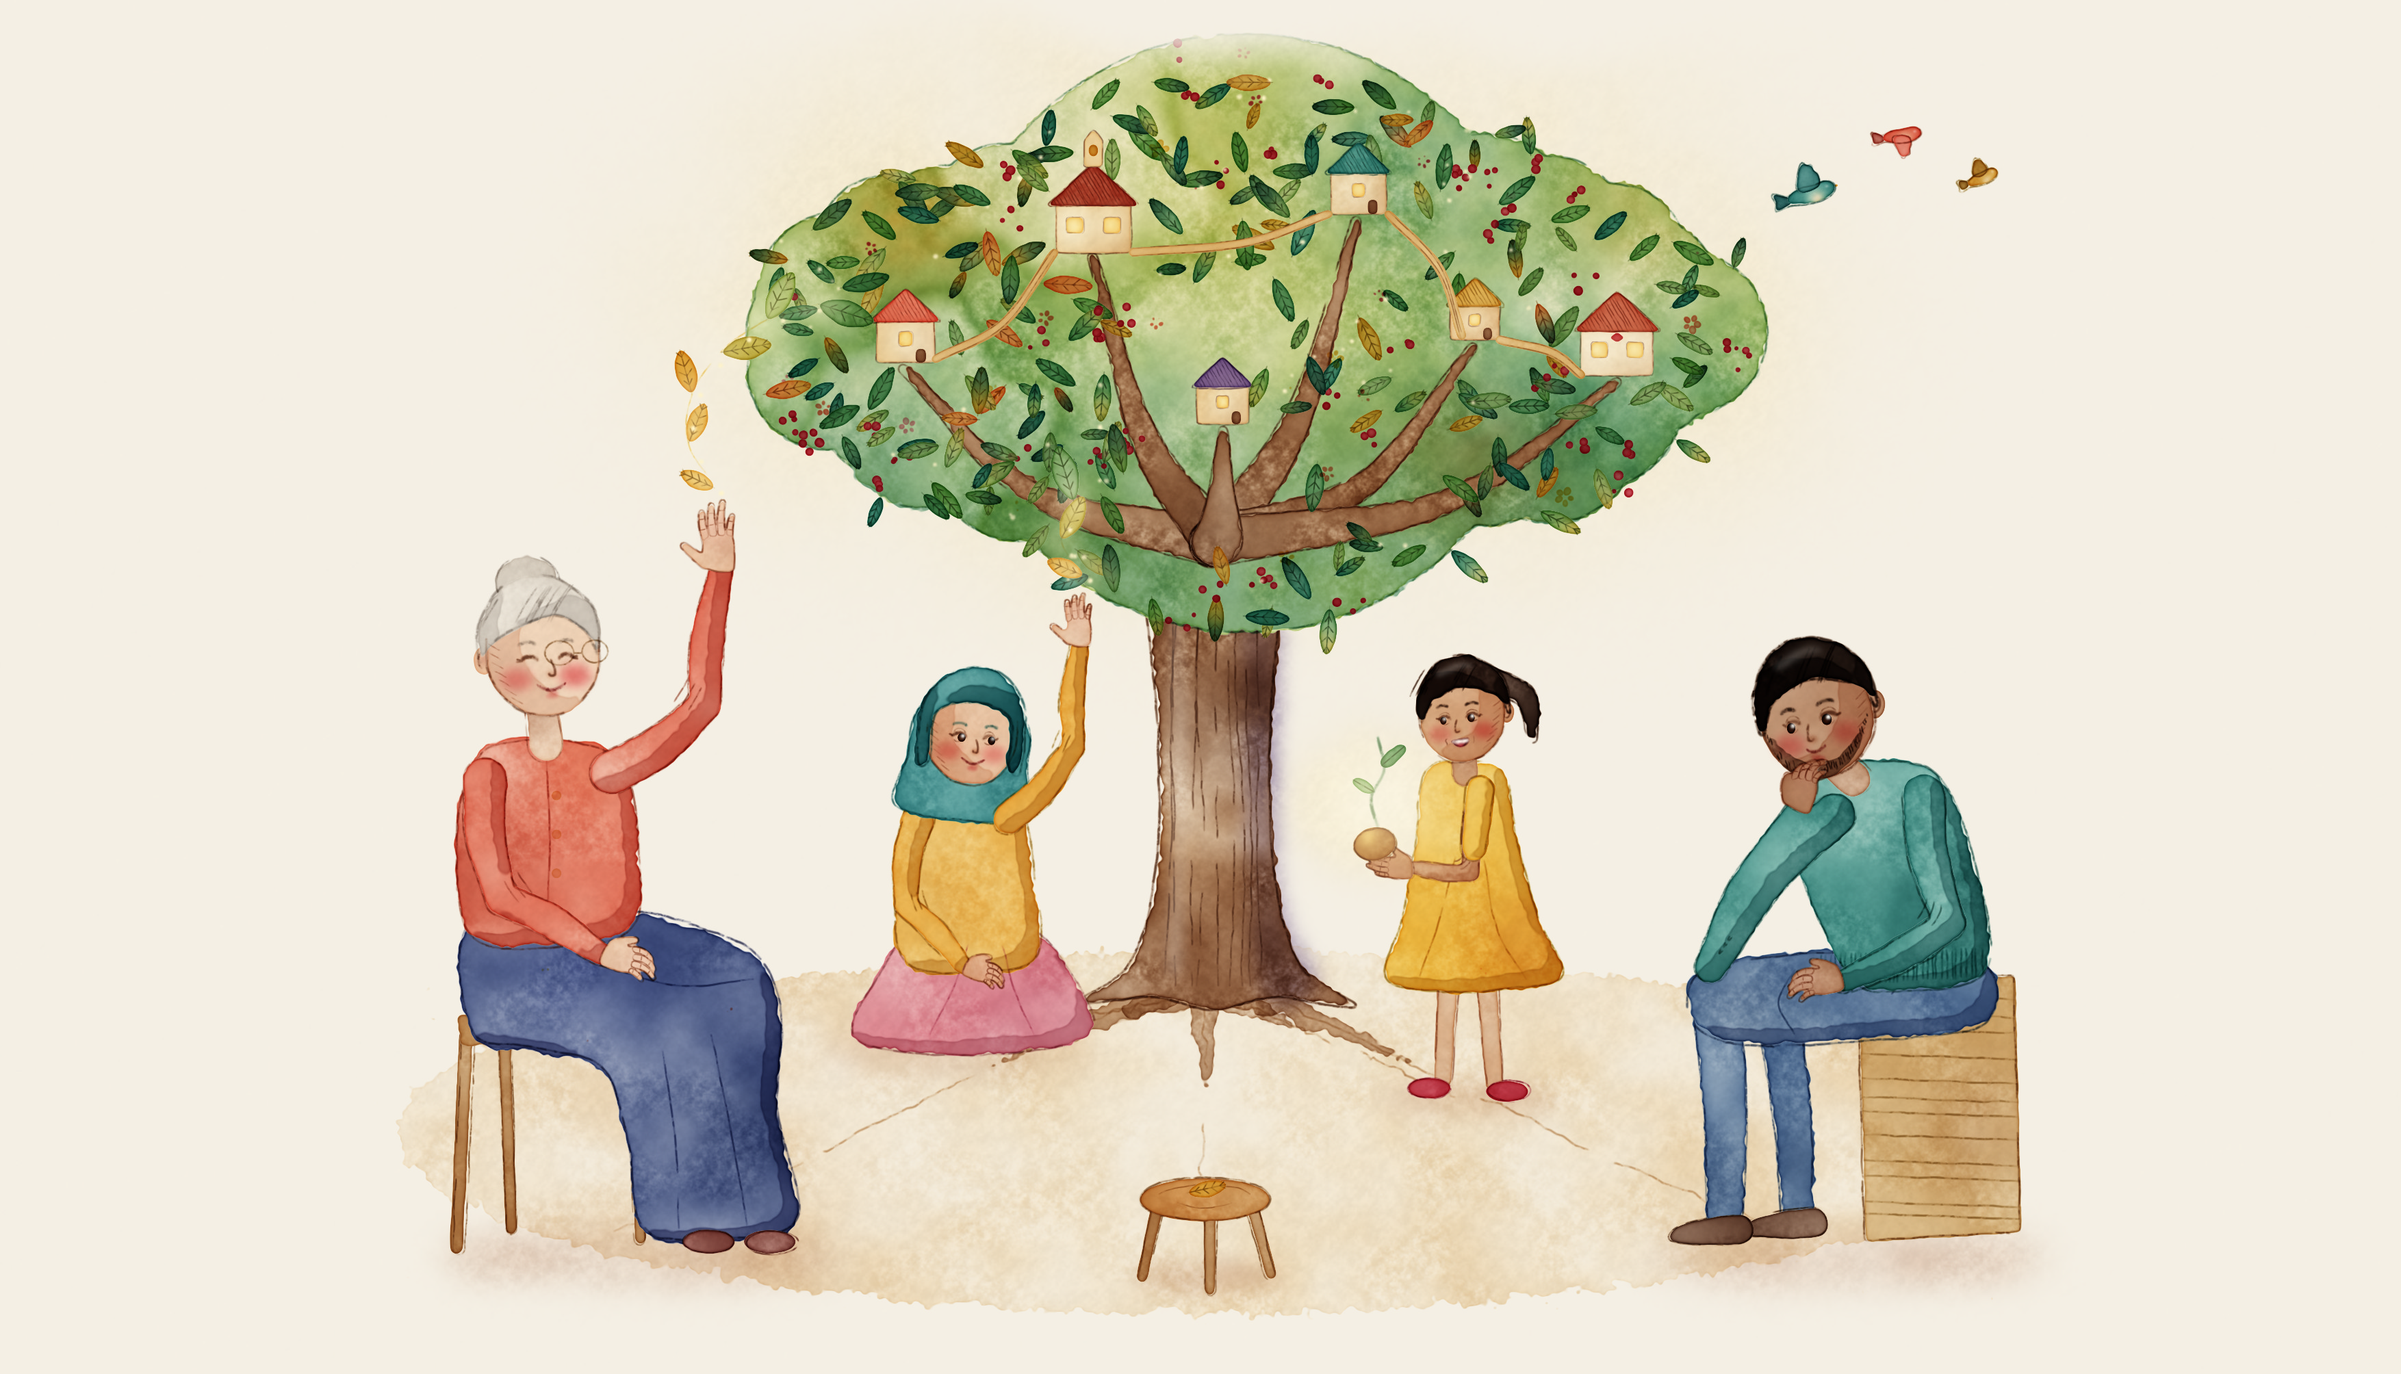
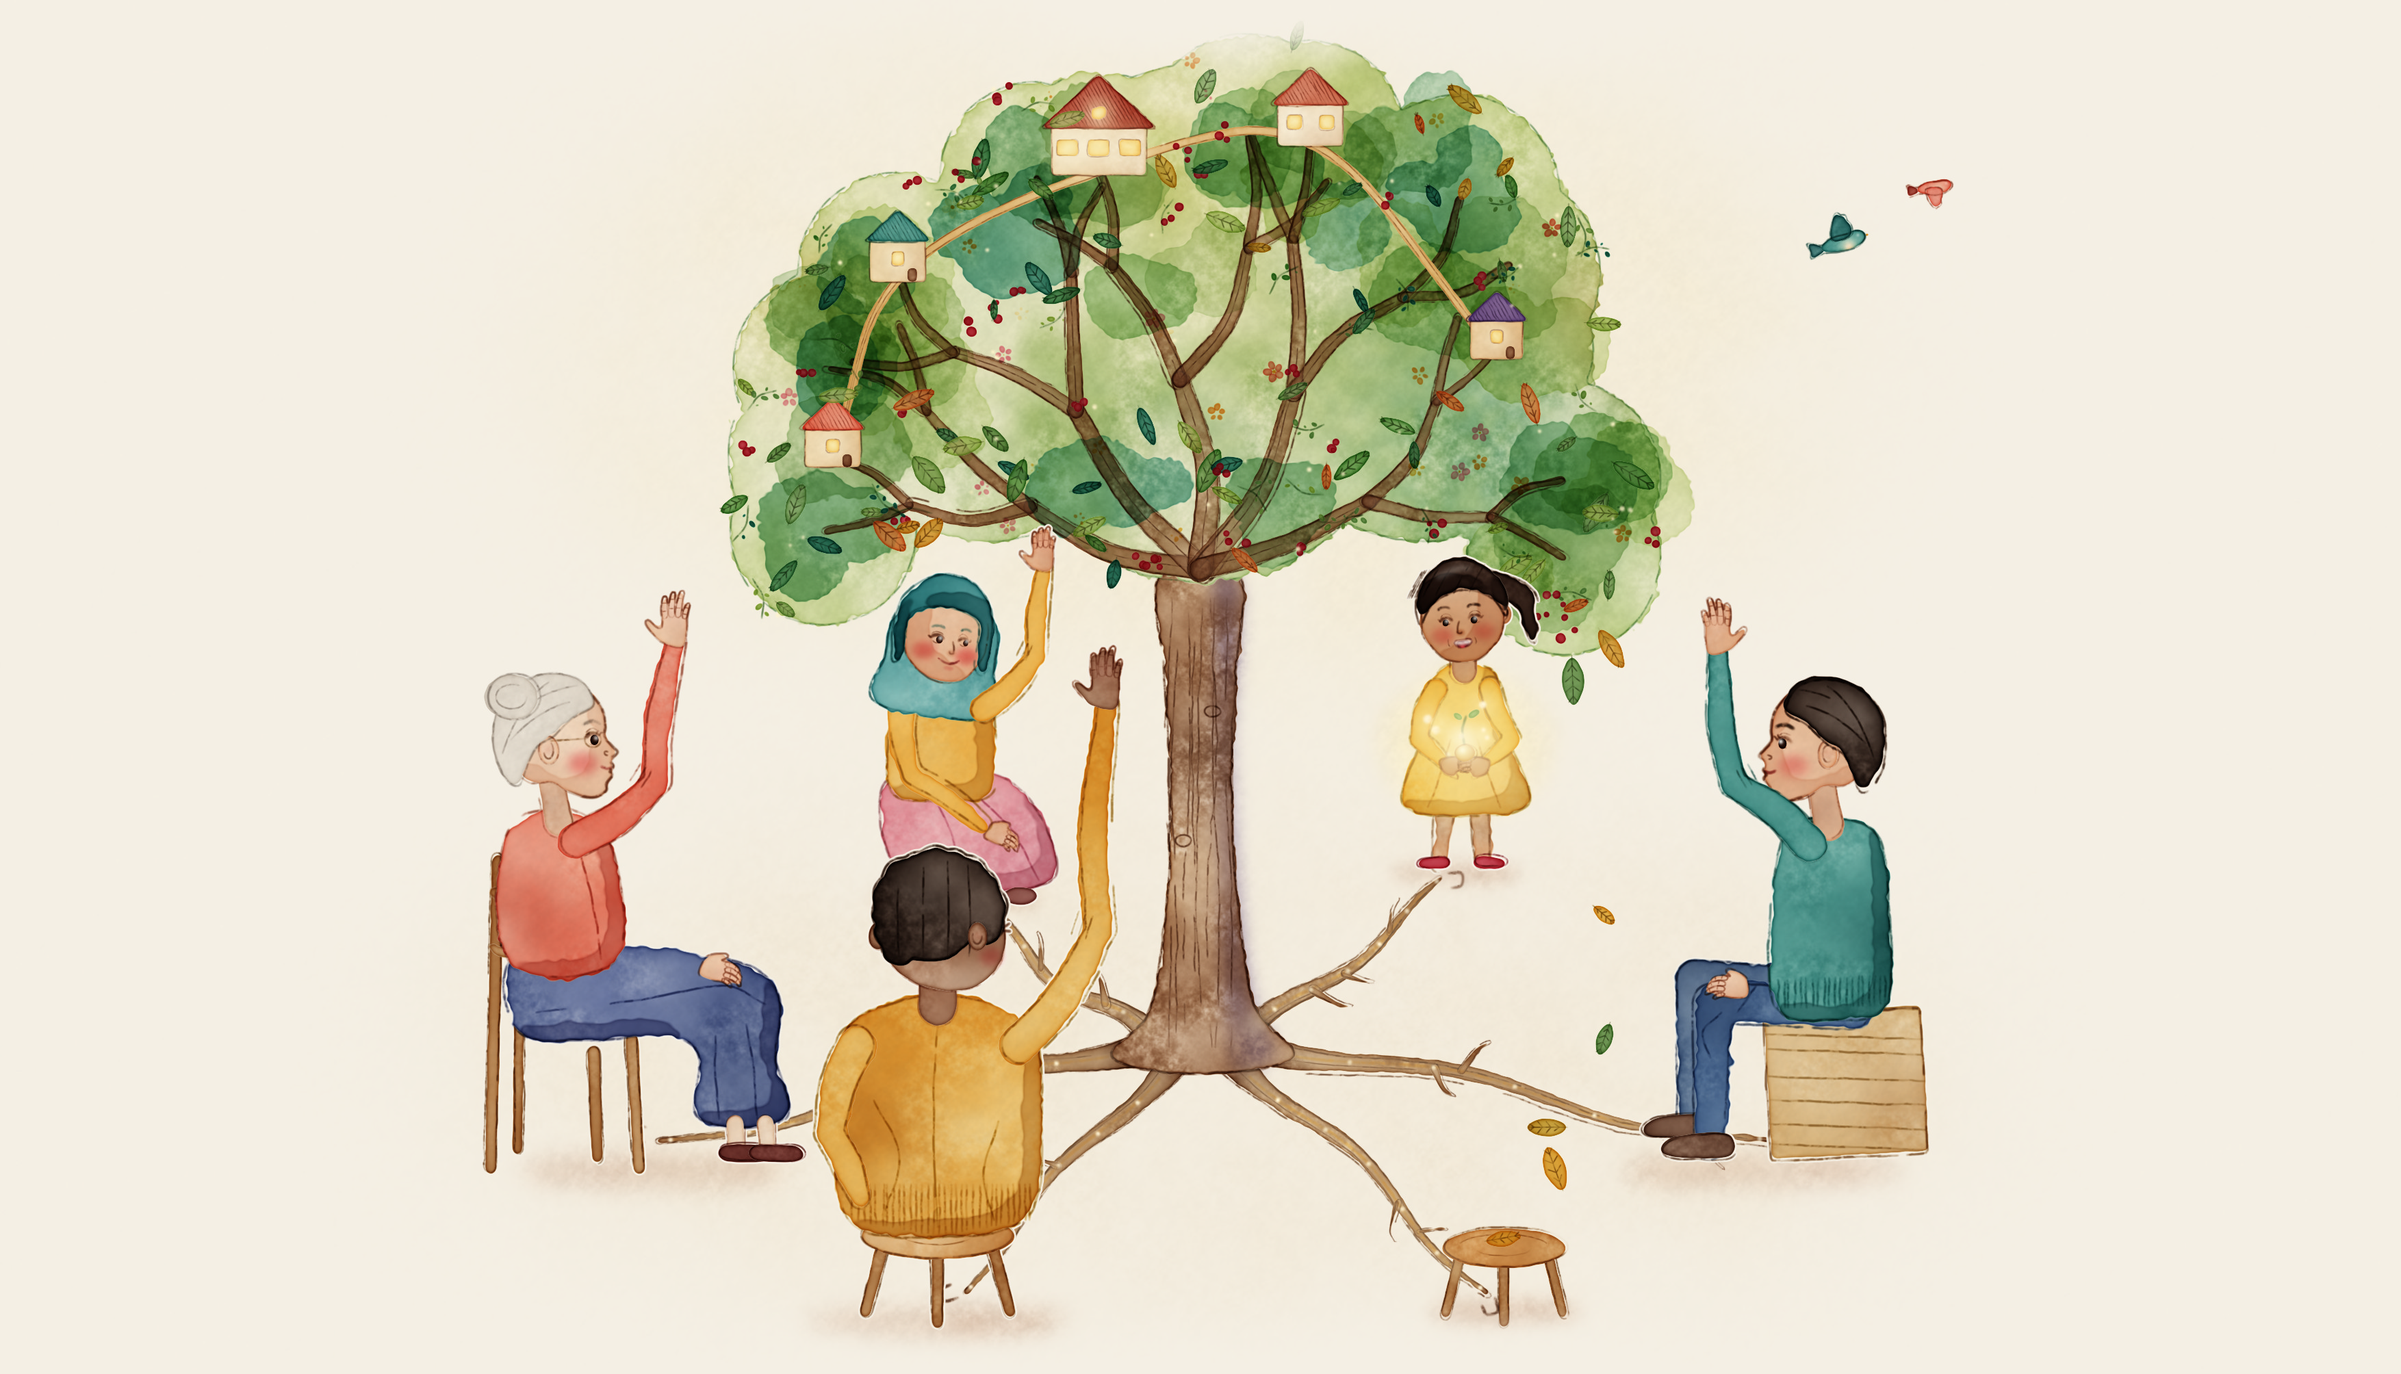
Calendario Arte: Design 4 work in progress
Claude-Session: https://claude.ai/code/session_01WLMKSDKQCN5ewxoWJ2uMJK

diff --git a/design/calendario-arte/generadores/diseno4/mes-11-d.py b/design/calendario-arte/generadores/diseno4/mes-11-d.py
@@ -246,12 +246,12 @@ sombra(lz, 900, 540, 40, 6)
 capa(201)
 pierna([(896, 498), (894, 516), (892, 534)], 10, '#e6b48a', zapato=CARMIN, pie_lado=-1)
 pierna([(912, 498), (914, 516), (915, 534)], 10, '#e6b48a', zapato=CARMIN, pie_lado=1)
+cuello(lz, 904, 404, 25, 'piel3', (905, 434), giro=-0.2, inclina=-6)
 pieza(lz, [(890, 436), (904, 432), (920, 436), (928, 470), (938, 504), (904, 510), (872, 504), (882, 470)],
       '#f2b93a', toques=[(930, 490, 26, '#d98a2c', 0.6), (896, 450, 20, '#f8d77a', 0.5)])
 pliegues(lz, [[(898, 470), (892, 490), (886, 506)], [(912, 470), (918, 490), (924, 506)]], '#a86a20')
 for (x, y) in ((888, 490), (906, 482), (922, 496), (898, 502), (914, 466)):
     flor_simple(lz, x, y, 3.2, CORAL, centro='#fff3cf')
-cuello(lz, 904, 404, 25, 'piel3', (905, 434))
 cabeza(lz, 904, 404, 25, piel='piel3', pelo='#2a1a14', peinado='coleta', giro=-0.2, inclina=-6, ojos='abiertos',
        boca='abierta', mira=(-0.6, 0.4))
 # arms bend in, the two hands make a cup in front of her chest
@@ -282,11 +282,11 @@ pliegues(lz, [[(600, 500), (620, 520), (634, 546)], [(580, 504), (590, 528), (58
 for x in (604, 624):
     z = Elipse(x, 554, 9, 4.5)
     lz.aguada(z, '#7a3f3a', dens=0.8, tapa=1, irreg=0.3)
+cuello(lz, 584, 416, 25, 'piel2', (584, 444), giro=0.6, inclina=8)
 pieza(lz, [(560, 448), (582, 442), (604, 448), (610, 472), (608, 500), (580, 504), (556, 500), (554, 472)],
       '#f0b44a', toques=[(560, 480, 20, '#d9902c', 0.5)])                     # blouse
 mano_dedos(lz, 606, 520, 20, 22, 'piel2', 'relajada', lado=-1)               # hand on her knee
 brazo(lz, (562, 456), (566, 492), (604, 518), 13, '#f0b44a', pliegue=False)
-cuello(lz, 584, 416, 25, 'piel2', (584, 444))
 cabeza(lz, 584, 416, 25, piel='piel2', pelo='#2f7f86', peinado='pañuelo', giro=0.6, inclina=8, ojos='abiertos',
        boca='sonrisa', mira=(1, 0.3))
 brazo(lz, (604, 456), (632, 428), (636, 382), 13, '#f0b44a')              # she votes
@@ -315,11 +315,11 @@ for (x0, y0) in ((446, 698), (462, 698)):                                    # a
     lz.contorno(z, '#4a2420', grosor=0.5, presion=0.5)
 for (x, y) in ((360, 630), (404, 624), (446, 660), (424, 640), (380, 646), (438, 680)):
     flor_simple(lz, x, y, 3.3, rng.choice([ORO, '#f6c0c8']), centro='#fff3cf')
+cuello(lz, 350, 500, 33, 'piel1', (354, 540), escote=False, giro=0.6)
 pieza(lz, [(332, 540), (356, 534), (376, 544), (386, 572), (386, 610), (360, 622), (330, 616), (322, 590),
            (324, 560)], CORAL, toques=[(330, 590, 30, '#c4503e', 0.55), (372, 556, 24, '#f39a7a', 0.5)])
 pliegues(lz, [[(364, 552), (372, 584), (376, 612)]], '#9a3a2e', presion=0.5)
 mano_dedos(lz, 428, 616, 12, 26, 'piel1', 'relajada', lado=-1)            # far hand rests on her knee
-cuello(lz, 350, 500, 33, 'piel1', (354, 540), ancho=0.4)
 cabeza_perfil(lz, 352, 498, 33, piel='piel1', pelo='#dcd6d0', peinado='mono', lado=1, inclina=-6, canas=True,
               gafas=True, ojos='abiertos', boca='sonrisa')
 brazo(lz, (362, 550), (404, 520), (414, 446), 17, CORAL)                 # she votes
@@ -337,12 +337,12 @@ JEAN = '#4a6a9a'
 pierna([(1130, 628), (1058, 622), (1056, 698)], 22, mezcla(JEAN, '#202a40', 0.25), zapato='#6e4c3c', pie_lado=-1)
 pierna([(1140, 636), (1068, 634), (1066, 708)], 23, JEAN, zapato='#6e4c3c', pie_lado=-1)
 pliegues(lz, [[(1090, 626), (1080, 640)], [(1072, 640), (1062, 650), (1066, 664)]], '#2a3a5a')
+cuello(lz, 1124, 502, 33, 'piel2', (1128, 542), escote=False, giro=-0.6)
 pieza(lz, [(1106, 546), (1130, 538), (1154, 548), (1160, 590), (1158, 636), (1126, 644), (1100, 636), (1098, 590)],
       TEAL, toques=[(1156, 600, 26, '#2a6a6a', 0.55), (1110, 556, 20, '#6fb1ad', 0.5)])
 lz.rayado(Poligono([(1100, 622), (1158, 620), (1158, 636), (1100, 638)], suave=False), '#2a6a6a', angulo=90, sep=3,
           presion=0.45)
 mano_dedos(lz, 1086, 628, 188, 26, 'piel2', 'relajada', lado=1)          # far hand on his thigh
-cuello(lz, 1124, 502, 33, 'piel2', (1128, 542), ancho=0.42)
 cabeza_perfil(lz, 1124, 500, 33, piel='piel2', pelo='#1e1410', peinado='corto', lado=-1, inclina=6, ojos='abiertos',
               boca='sonrisa')
 brazo(lz, (1118, 552), (1078, 520), (1070, 450), 17, TEAL)               # he votes
@@ -359,6 +359,7 @@ sombra(lz, 580, 818, 80, 9)
 capa(205)
 taburete(580, 772, 40, 12, 40)
 # the raised arm goes behind his head? no: in front of the sky, drawn after the back
+cuello(lz, 580, 612, 35, 'piel5', (580, 652), ancho=0.5, natural=False)
 lomo = pieza(lz, [(532, 664), (556, 650), (580, 646), (606, 650), (630, 666), (634, 700), (628, 760), (580, 772),
                   (534, 764), (526, 712)], '#e2a03a',
              toques=[(540, 720, 40, '#c07a2a', 0.55), (612, 680, 30, '#f2c46a', 0.5)])
@@ -367,7 +368,6 @@ pliegues(lz, [[(580, 660), (578, 710), (580, 768)], [(546, 700), (560, 730), (55
 lz.rayado(Poligono([(534, 744), (628, 744), (628, 764), (580, 772), (534, 764)], suave=False), '#b07a2a', angulo=90,
           sep=3, presion=0.45)                                              # ribbed hem of the jumper
 brazo(lz, (538, 672), (524, 718), (540, 752), 19, '#e2a03a', pliegue=False)   # far arm resting
-cuello(lz, 580, 612, 35, 'piel5', (580, 652), ancho=0.5)
 cabeza_espalda(lz, 580, 610, 35, piel='piel5', pelo='#1e1410', peinado='rizado', giro=0.6)
 brazo(lz, (622, 672), (664, 612), (668, 494), 19, '#e2a03a')               # he votes too
 mano_dedos(lz, 668, 496, -90, 36, 'piel5', 'abierta', lado=-1)

diff --git a/design/calendario-arte/generadores/diseno4/mes-12-d.py b/design/calendario-arte/generadores/diseno4/mes-12-d.py
@@ -184,12 +184,12 @@ pierna([(586, 540), (662, 540), (666, 594)], 28, mezcla(PANT, '#1a1a2a', 0.3), z
 pierna([(600, 546), (676, 548), (680, 600)], 29, PANT, zapato='#4a2e22')
 pliegues(lz, [[(640, 536), (656, 546), (668, 540)], [(672, 556), (676, 574)]], '#2a2f44')
 ABRIGO = '#d9a441'
+cuello(lz, 616, 412, 46, 'piel3', (604, 462), escote=False, giro=0.6, inclina=12)
 pieza(lz, [(566, 466), (596, 456), (624, 462), (646, 486), (652, 520), (650, 548), (612, 556), (572, 552),
            (560, 520), (560, 488)], ABRIGO, toques=[(566, 520, 40, '#b07a2a', 0.6), (632, 478, 26, '#f0c870', 0.5)])
 pliegues(lz, [[(612, 476), (622, 512), (626, 550)], [(580, 500), (590, 530), (582, 552)]], '#8a5a20', presion=0.5)
 for y in (500, 522, 542):
     lz.aguada(Elipse(628, y, 3, 3), '#6a4428', dens=0.9, irreg=0.1)
-cuello(lz, 616, 412, 46, 'piel3', (604, 462), ancho=0.42)
 # red scarf with fringes
 bufanda = Trazo([(586, 462), (608, 472), (630, 462)], (16, 18, 15))
 lz.aguada(bufanda, CARMIN, dens=0.85, tapa=1, irreg=0.3)
@@ -238,6 +238,7 @@ pieza(lz, [(930, 506), (906, 512), (868, 520), (838, 528), (832, 548), (850, 560
       toques=[(840, 540, 26, '#5a2a52', 0.5)])                          # her skirt over the knees
 pliegues(lz, [[(900, 524), (868, 534), (840, 538)], [(886, 540), (858, 552)]], '#4a2240')
 # coat
+cuello(lz, 878, 414, 44, 'piel4', (890, 458), escote=False, giro=-0.6)
 pieza(lz, [(868, 462), (892, 454), (916, 460), (932, 490), (934, 524), (930, 552), (898, 556), (870, 548),
            (860, 516), (860, 486)], TEAL, toques=[(928, 520, 40, '#2a6a6a', 0.6), (874, 474, 26, '#6fb1ad', 0.5)])
 pliegues(lz, [[(886, 470), (884, 510), (888, 552)], [(916, 486), (920, 520), (914, 552)]], '#1f4f4f', presion=0.5)
@@ -245,7 +246,6 @@ for (x, y) in ((902, 496), (876, 528), (918, 534), (894, 474)):
     flor_simple(lz, x, y, 4.0, ROSA, centro='#fff3cf')
 # far hand on the wheel's rim
 mano_dedos(lz, 930, 536, 120, 28, 'piel4', 'sujeta', lado=1)
-cuello(lz, 878, 414, 44, 'piel4', (890, 458), ancho=0.4)
 cabeza_perfil(lz, 878, 412, 44, piel='piel4', pelo='#2a1a14', peinado='rizado', lado=-1, inclina=-4,
               ojos='abiertos', boca='abierta', ojo=1.35)
 # her headwrap, the size of a real one: curls show at the nape and the temple
@@ -299,6 +299,7 @@ NX = 430
 sombra(lz, NX, ym(NX) + 4, 40, 5, '#8a6a5a', 0.3)
 pierna([(NX - 6, 586), (NX - 16, 618), (NX - 26, ym(NX - 26) - 6)], 13, '#4a6a9a', zapato=ORO, pie_lado=1)
 pierna([(NX + 8, 586), (NX + 24, 610), (NX + 26, ym(NX + 26) - 10)], 13, '#5a7aaa', zapato=ORO, pie_lado=1)
+cuello(lz, NX, 472, 32, 'piel2', (NX + 2, 504), giro=0.55, inclina=6)
 pieza(lz, [(NX - 16, 506), (NX + 2, 500), (NX + 20, 506), (NX + 28, 548), (NX + 34, 592), (NX, 598),
            (NX - 30, 592), (NX - 22, 548)], CORAL, toques=[(NX - 22, 570, 28, '#c4503e', 0.6)])
 pliegues(lz, [[(NX, 528), (NX - 4, 566), (NX - 8, 594)]], '#9a3a2e')
@@ -318,7 +319,6 @@ for k in range(3):
              presion=0.35)
 brazo(lz, (NX + 12, 512), (NX + 10, 548), (BX - 20, 558), 14, CORAL)                      # near arm
 mano_dedos(lz, BX - 20, 558, -15, 22, 'piel2', 'sujeta', lado=1)
-cuello(lz, NX, 472, 32, 'piel2', (NX + 2, 504))
 cabeza(lz, NX, 470, 32, piel='piel2', pelo='#c9783a', peinado='rizado', giro=0.55, inclina=6, ojos='abiertos',
        boca='sonrisa', mira=(1, 0.3))
 

diff --git a/design/calendario-arte/generadores/diseno4/extra_m678.py b/design/calendario-arte/generadores/diseno4/extra_m678.py
@@ -325,7 +325,7 @@ def torso2(lz, hi, hd, ci, cd, color, cintura=0.86, escote='redondo', sombra=1, 
     up = (m - (ci + cd) / 2)
     up /= max(np.linalg.norm(up), 1e-6)
     side = (hd - hi) / max(w, 1e-6)
-    esc = 0.3 if escote == 'v' else 0.1
+    esc = 0.34 if escote == 'v' else 0.2
     pts = [m - side * w * 0.2 + up * w * 0.07, hi + up * w * 0.01, hi - side * w * 0.05 - up * w * 0.12,
            hi - side * w * 0.03 - up * w * 0.32, wi, ci, (ci + cd) / 2 - up * w * 0.02, cd, wd,
            hd + side * w * 0.03 - up * w * 0.32, hd + side * w * 0.05 - up * w * 0.12, hd + up * w * 0.01,
@@ -346,15 +346,14 @@ def torso2(lz, hi, hd, ci, cd, color, cintura=0.86, escote='redondo', sombra=1, 
     return f
 
 
-def cuello(lz, cabeza_xy, r, base, piel='piel2', ancho=0.48):
-    """Neck from under the head to the collar, shadowed under the chin."""
+def cuello(lz, cabeza_xy, r, base, piel='piel2', ancho=0.48, giro=0.0, inclina=0.0, ancho_base=None, escote=True):
+    """A natural neck (acuarela.cuello_natural): narrow under the jaw, opening
+    into the trapezius, a soft shadow under the chin and the clavicles in
+    pencil. Paint it before the shirt and the head."""
+    import acuarela
     hx, hy = cabeza_xy
-    b = _v(base)
-    f = Trazo([(hx, hy + r * 0.55), ((hx + b[0]) / 2, (hy + r * 0.55 + b[1]) / 2), b],
-              (r * ancho, r * ancho * 1.02, r * ancho * 1.12))
-    lz.aguada(f, piel, dens=0.6, tapa=1, irreg=0.4, borde=0.3,
-              toques=[(hx, hy + r * 0.9, r * 0.45, piel_sombra(piel), 0.7)])
-    return f
+    return acuarela.cuello_natural(lz, hx, hy, r, piel, tuple(base), ancho_base or r * 2.3, giro=giro, inclina=inclina,
+                                   escote=escote)
 
 
 # ---------------------------------------------------------------- the head
@@ -561,8 +560,8 @@ def cabeza2(lz, x, y, r, piel='piel2', pelo='#5a3a2a', peinado='corto', giro=0.0
             cs.append((q[0], q[1], r * rng.uniform(0.3, 0.38)))
         hp = Circulos(cs)
     elif peinado == 'calvo':
-        hp = (Poligono([R(-rx * 1.04, r * 0.22), R(-rx * 1.0, -r * 0.35), R(-rx * 0.72, -r * 0.52), R(-rx * 0.8, r * 0.05)]) |
-              Poligono([R(rx * 1.04, r * 0.22), R(rx * 1.0, -r * 0.35), R(rx * 0.72, -r * 0.52), R(rx * 0.8, r * 0.05)]))
+        hp = (Poligono([R(-rx * 1.03, r * 0.12), R(-rx * 1.0, -r * 0.3), R(-rx * 0.86, -r * 0.4), R(-rx * 0.88, r * 0.0)]) |
+              Poligono([R(rx * 1.03, r * 0.12), R(rx * 1.0, -r * 0.3), R(rx * 0.86, -r * 0.4), R(rx * 0.88, r * 0.0)]))
     elif peinado == 'panuelo':
         hp = Poligono([R(-rx * 1.15, r * 0.7), R(-rx * 1.12, -r * 0.5), R(-rx * 0.4, -r * 1.14), R(rx * 0.5, -r * 1.14),
                        R(rx * 1.12, -r * 0.5), R(rx * 1.15, r * 0.7), R(rx * 0.92, r * 0.62), R(rx * 0.86, -r * 0.3),

diff --git a/design/calendario-arte/generadores/diseno4/mes-08-d.py b/design/calendario-arte/generadores/diseno4/mes-08-d.py
@@ -334,11 +334,11 @@ pelo = Poligono([(1232, 426), (1262, 418), (1300, 432), (1340, 426), (1372, 444)
 lz.aguada(pelo, '#3a2418', dens=0.8, tapa=1, borde=0.6, gran=0.4, irreg=0.6)
 lz.lapiz([bezier((1250, 434), (1300, 426), (1366, 442)), bezier((1252, 444), (1310, 442), (1350, 450)),
           bezier((1260, 428), (1310, 418), (1338, 428))], '#1e120c', grosor=0.6, presion=0.45, temblor=0.4)
-lz.aguada(Elipse(1268, 648, 34, 6), '#b89a8a', dens=0.35, suave=5)
+lz.aguada(Elipse(1266, 702, 34, 5), '#a08a7a', dens=0.5, suave=4)
 lz.aguada(Elipse(1050, 778, 110, 10), '#a0a07a', dens=0.3, suave=8)
 # legs together, heels up
-pierna2(lz, (1262, 562), (1258, 626), (1256, WY - 10), 19, None, PM, pie_ang=75, descalzo=True, sombra=-1, pie_tam=24)
-pierna2(lz, (1276, 562), (1276, 628), (1272, WY - 12), 19, None, PM, pie_ang=95, descalzo=True, sombra=1, pie_tam=24)
+pierna2(lz, (1262, 562), (1258, 626), (1256, WY - 10), 19, None, PM, pie_ang=62, descalzo=True, sombra=-1, pie_tam=22)
+pierna2(lz, (1276, 562), (1276, 628), (1272, WY - 12), 19, None, PM, pie_ang=112, descalzo=True, sombra=1, pie_tam=22)
 # arms overhead, bending the whole body into a curve toward the left
 brazo2(lz, (1270, 466), (1252, 410), (1218, 364), 13, '#6fb1ad', PM, 'sin', sombra=1,
        mano=dict(ang=-135, gesto='abierta', lado=-1, tam=20, abre=0.4))

diff --git a/design/calendario-arte/generadores/diseno4/extra_m1112.py b/design/calendario-arte/generadores/diseno4/extra_m1112.py
@@ -237,8 +237,16 @@ def casita(lz, x, y, w, h, pared='#f1d9b0', tejado='#c0503f', ventanas=1, luz=Tr
         lz.aguada(pu, '#8a5a3e', dens=0.75, tapa=1, irreg=0.2)
 
 
-def cuello(lz, x, y, r, piel, base, ancho=0.46):
-    """A slender neck from under the head (x, y, r) down to the collar point."""
+def cuello(lz, x, y, r, piel, base, ancho=0.46, natural=True, giro=0.0, inclina=0.0, escote=True, hombros=None):
+    """A neck under the head (x, y, r) down to the collar point `base`.
+    natural=True (default) uses acuarela.cuello_natural: it grows out of the
+    jaw and flows into the shoulders, so it must be painted BEFORE the shirt
+    and the head. natural=False: the old slender tube (for a nape seen from
+    behind)."""
+    if natural:
+        import acuarela
+        return acuarela.cuello_natural(lz, x, y, r, piel, base, hombros or r * 1.7, giro=giro, inclina=inclina,
+                                       escote=escote)
     f = Trazo([(x, y + r * 0.55), base], (r * ancho, r * ancho * 1.12))
     lz.aguada(f, piel, dens=0.58, tapa=1, irreg=0.4, borde=0.4,
               toques=[(x, y + r * 0.95, r * 0.45, mezcla(piel, '#8a4a32', 0.55), 0.7)])
